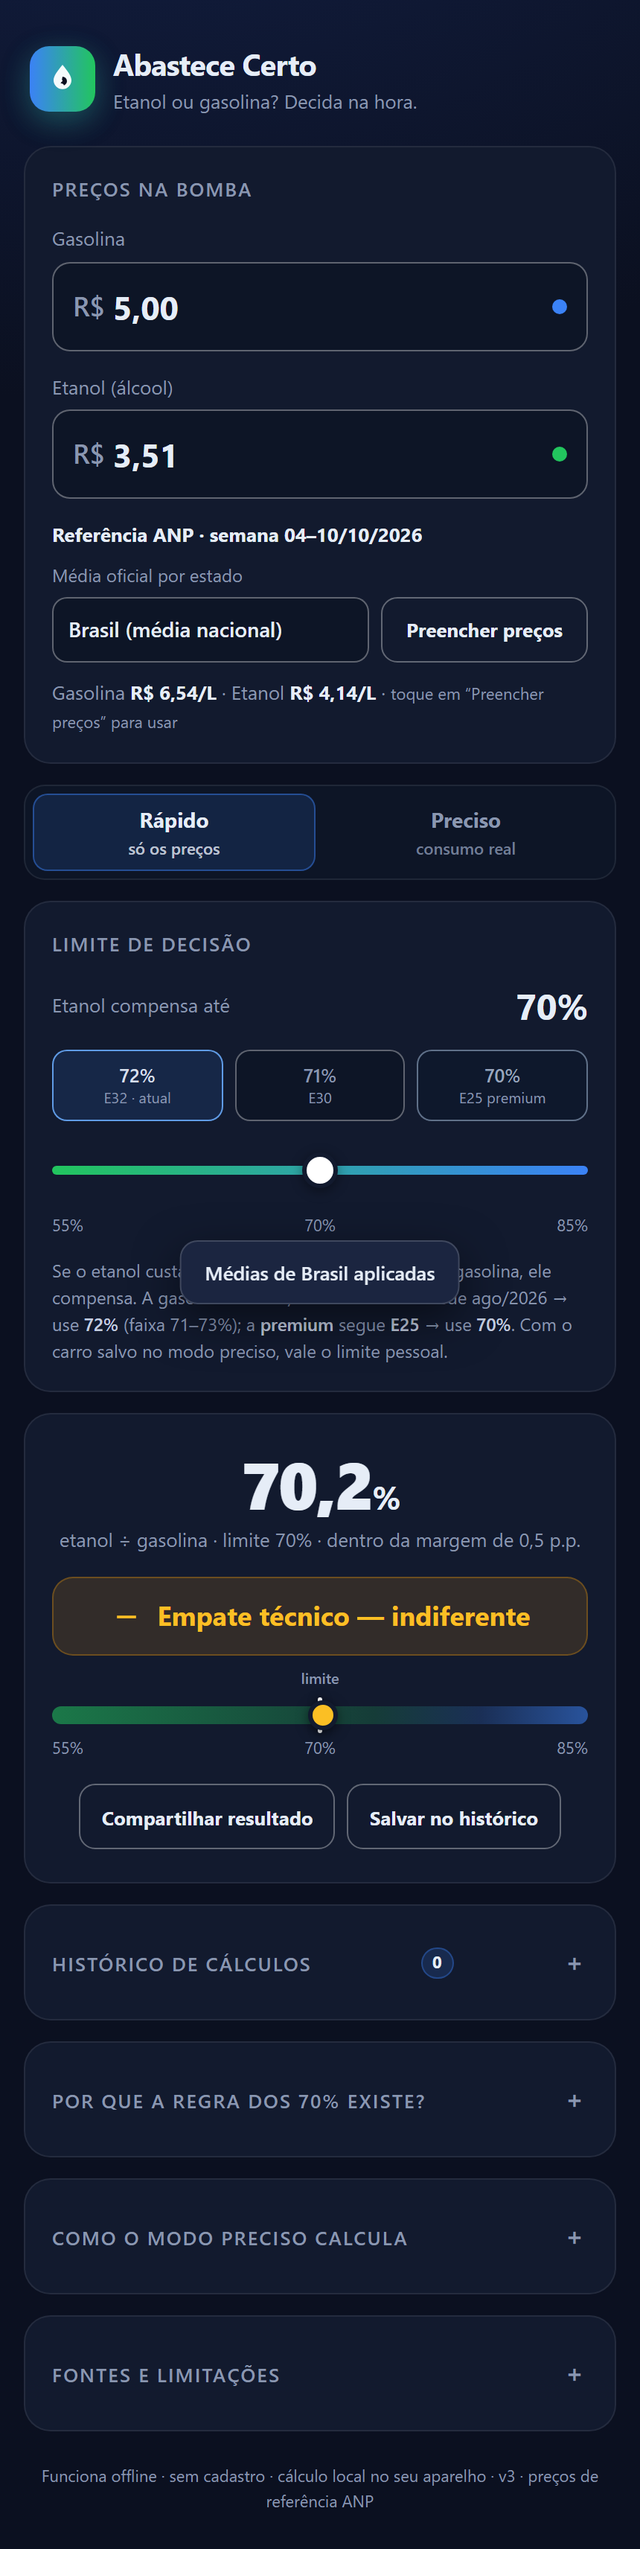
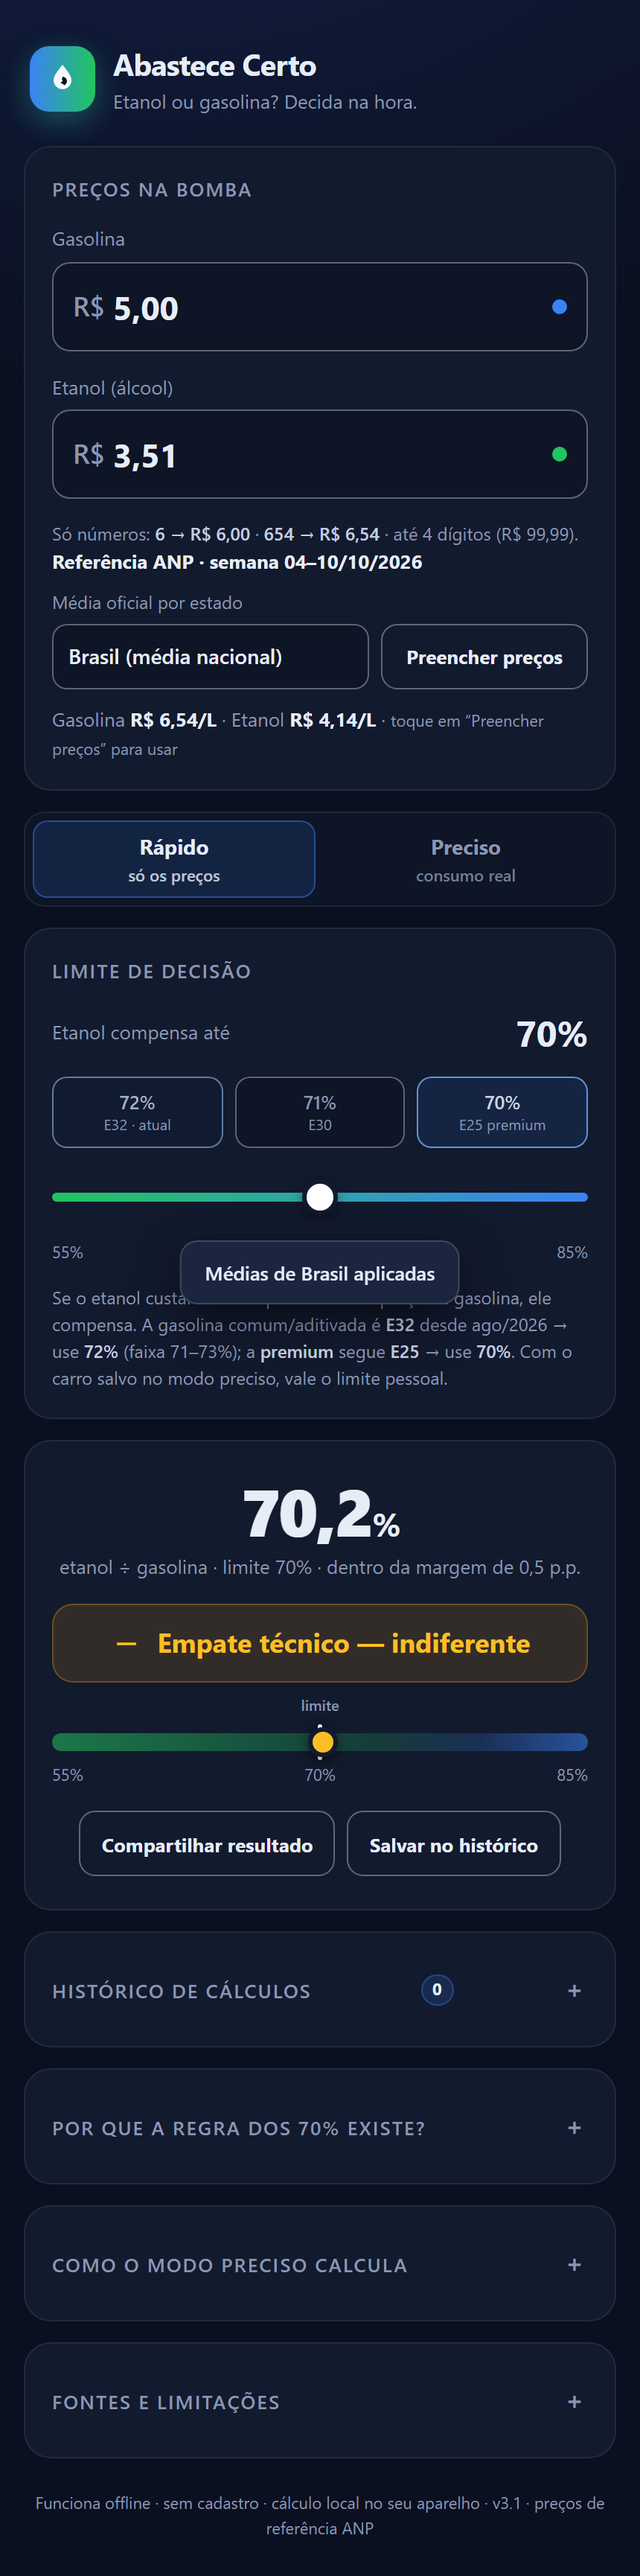
feat(v3.1): mascara de preco (6->6,00, 654->6,54) + referencias de design e DESIGN.md atualizado

diff --git a/index.html b/index.html
@@ -374,7 +374,7 @@
       <label for="gas">Gasolina</label>
       <div class="box">
         <span class="prefix" aria-hidden="true">R$</span>
-        <input id="gas" type="text" inputmode="decimal" placeholder="6,54" autocomplete="off" enterkeyhint="next" aria-describedby="gasHint">
+        <input id="gas" type="text" inputmode="numeric" placeholder="0,00" autocomplete="off" enterkeyhint="next" aria-describedby="gasHint priceHelp">
         <span class="dot gas" aria-hidden="true"></span>
       </div>
       <div class="hint" id="gasHint"></div>
@@ -383,11 +383,12 @@
       <label for="eta">Etanol (álcool)</label>
       <div class="box">
         <span class="prefix" aria-hidden="true">R$</span>
-        <input id="eta" type="text" inputmode="decimal" placeholder="4,14" autocomplete="off" enterkeyhint="done" aria-describedby="etaHint">
+        <input id="eta" type="text" inputmode="numeric" placeholder="0,00" autocomplete="off" enterkeyhint="done" aria-describedby="etaHint priceHelp">
         <span class="dot eta" aria-hidden="true"></span>
       </div>
       <div class="hint" id="etaHint"></div>
     </div>
+    <p class="fineprint" id="priceHelp">Só números: <strong>6 → R$ 6,00</strong> · <strong>654 → R$ 6,54</strong> · até 4 dígitos (R$ 99,99).</p>
     <div class="ref" id="priceRef">
       <p class="fineprint">Médias ANP da semana 04–10/10/2026: gasolina comum <strong>R$ 6,54/L</strong> · etanol <strong>R$ 4,14/L</strong>. Digite o preço do posto onde vai abastecer.</p>
     </div>
@@ -530,7 +531,7 @@
     </details>
   </section>
 
-  <footer>Funciona offline · sem cadastro · cálculo local no seu aparelho · v3 · preços de referência ANP</footer>
+  <footer>Funciona offline · sem cadastro · cálculo local no seu aparelho · v3.1 · preços de referência ANP</footer>
 </div>
 
 <div class="toast" id="toast" role="status" aria-live="polite"></div>
@@ -994,6 +995,78 @@
     toast: $("toast"), netBadge: $("netBadge"),
     updateBar: $("updateBar"), updateBtn: $("updateBtn")
   };
+
+  // ---------------------------------------------------------------- máscara de preço
+  // O campo aceita só dígitos e formata em reais enquanto digita:
+  //   6 -> 6,00 · 65 -> 65,00 (transitório) · 654 -> 6,54 · 456 -> 4,56 · 1050 -> 10,50
+  // O estado real fica nos dígitos (WeakMap), nunca no texto formatado — senão a
+  // vírgula e os zeros entrariam no próximo dígito.
+  var PRICE_DIGITS_MAX = 4;               // teto de R$ 99,99
+  var priceDigits = new WeakMap();
+
+  function fmtPriceDigits(digits) {
+    if (!digits) return "";
+    if (digits.length <= 2) return digits + ",00";
+    return digits.slice(0, digits.length - 2) + "," + digits.slice(-2);
+  }
+
+  function setPriceDigits(input, value) {
+    var digits = String(value == null ? "" : value).replace(/\D/g, "");
+    digits = digits.replace(/^0+(?=\d)/, "");   // "06" -> "6"
+    if (digits.length > PRICE_DIGITS_MAX) digits = digits.slice(digits.length - PRICE_DIGITS_MAX);
+    priceDigits.set(input, digits);
+    input.value = fmtPriceDigits(digits);
+  }
+
+  function allSelected(input) {
+    return input.value.length > 0 &&
+      input.selectionStart === 0 &&
+      input.selectionEnd === input.value.length;
+  }
+
+  function notifyInput(input) {
+    input.dispatchEvent(new Event("input", { bubbles: true }));
+  }
+
+  function bindPriceMask(input) {
+    setPriceDigits(input, input.value);
+
+    input.addEventListener("keydown", function (e) {
+      if (e.key === "," || e.key === ".") e.preventDefault();
+    });
+
+    input.addEventListener("beforeinput", function (e) {
+      var tipo = e.inputType || "";
+      if (tipo.indexOf("delete") === 0) {
+        e.preventDefault();
+        setPriceDigits(input, allSelected(input) ? "" : (priceDigits.get(input) || "").slice(0, -1));
+        notifyInput(input);
+        return;
+      }
+      if (tipo === "insertText" || tipo === "insertFromPaste" || tipo === "insertCompositionText") {
+        var entrada = e.data;
+        if (entrada == null && e.dataTransfer) entrada = e.dataTransfer.getData("text");
+        if (entrada == null) return;
+        e.preventDefault();
+        var novos = String(entrada).replace(/\D/g, "");
+        if (!novos) return;
+        var base = allSelected(input) ? "" : (priceDigits.get(input) || "");
+        setPriceDigits(input, base + novos);
+        notifyInput(input);
+      }
+    });
+
+    // Fallback: valor definido por script/autofill (evento não confiável).
+    input.addEventListener("input", function (e) {
+      if (e.isTrusted) return;
+      setPriceDigits(input, input.value);
+    });
+
+    input.addEventListener("focus", function () { input.select(); });
+  }
+
+  bindPriceMask(ui.gas);
+  bindPriceMask(ui.eta);
 
   // ---------------------------------------------------------------- storage
   var KEY = "ac.v2";
@@ -1541,6 +1614,8 @@
     if (!values) return;
     ui.gas.value = AC.toInputValue(values.gasolina);
     ui.eta.value = AC.toInputValue(values.etanol);
+    setPriceDigits(ui.gas, ui.gas.value);
+    setPriceDigits(ui.eta, ui.eta.value);
     render();
     saveState();
     toast("Médias de " + (uf || "Brasil") + " aplicadas");
@@ -1769,6 +1844,9 @@
 
   // ---------------------------------------------------------------- init
   loadState();
+  // Sincroniza o estado da máscara com o que veio do localStorage.
+  setPriceDigits(ui.gas, ui.gas.value);
+  setPriceDigits(ui.eta, ui.eta.value);
 
   // Atalhos do manifest: ./?modo=preciso ou ./?modo=rapido
   try {

diff --git a/sw.js b/sw.js
@@ -9,7 +9,7 @@
 //
 // Ao publicar uma versão, mude VERSION: o activate apaga os caches antigos.
 
-const VERSION = "v3.0.0";
+const VERSION = "v3.1.0";
 const CACHE = "abastece-certo-" + VERSION;
 
 const PRECACHE = [

diff --git a/DESIGN.md b/DESIGN.md
@@ -86,8 +86,10 @@ O visual da v3 caiu no padrão "cara de IA". Não repetir:
 
 ## 7. Componentes
 
-- **Campo de preço:** etiqueta pequena, prefixo `R$` discreto, valor grande em mono; foco com contorno de
-  2 px; erro em texto (não só cor) e `aria-invalid`.
+- **Campo de preço:** só aceita dígitos e mostra o valor formatado — `6` → R$ 6,00, `654` → R$ 6,54,
+  `1050` → R$ 10,50; máximo de 4 dígitos (R$ 99,99); vírgula e ponto não são digitáveis; backspace apaga
+  um dígito e focar seleciona tudo. Etiqueta pequena, prefixo `R$` discreto, valor grande em mono; foco
+  com contorno de 2 px; erro em texto (não só cor) e `aria-invalid`.
 - **Seletor de UF:** rótulo visível "Média oficial por estado", `select` + botão "Preencher preços" e os
   valores médios exibidos logo abaixo (a média muda ao trocar a UF).
 - **Gauge:** régua graduada com marca de limite e ponto do índice; sem gradiente arco-íris.

diff --git a/README.md b/README.md
@@ -23,6 +23,7 @@ e guarda um **histórico local** dos seus cálculos com gráfico e exportação 
 
 ## Recursos
 
+- **Campo de preço inteligente** — só números: `6` vira R$ 6,00, `654` vira R$ 6,54, até 4 dígitos (R$ 99,99), com zero e vírgula automáticos.
 - **Preços de referência da ANP** — médias semanais oficiais (Brasil e por UF) carregadas de um `precos.json` gerado por script; um toque preenche os dois preços.
 - **Histórico local** — salve cálculos, veja a evolução do índice num gráfico próprio (SVG) e exporte em CSV compatível com Excel.
 - **Instalável (PWA)** — manifest com screenshots, ícones PNG 192/512 + maskable e service worker próprio.
